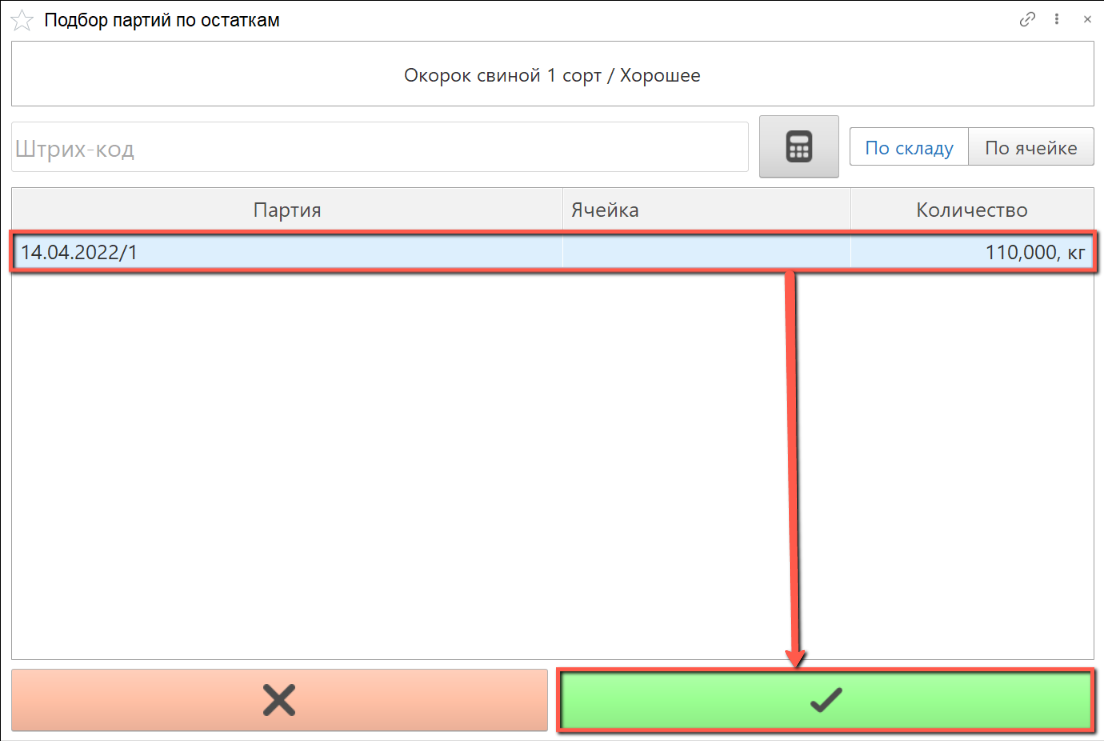
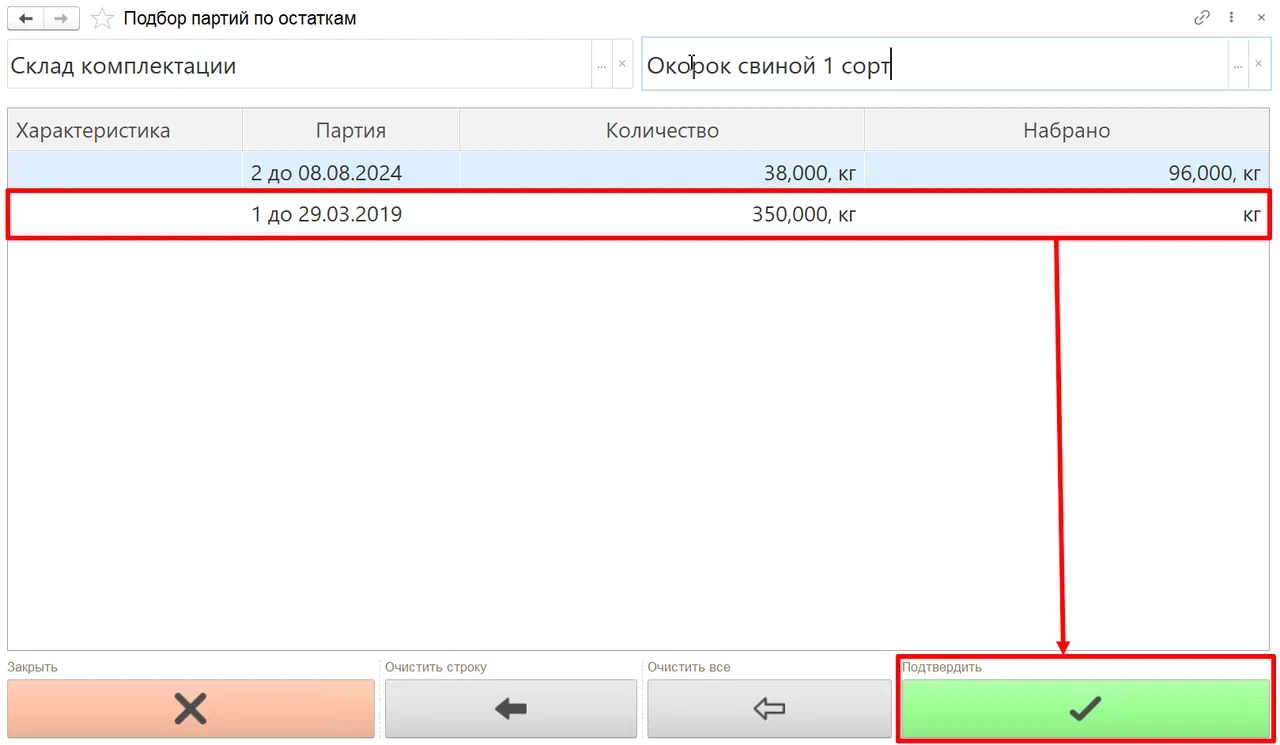
new: релиз справки 2.0.17.1

Changed region(s): [[0.0, 0.0, 1.0, 1.0]]

diff --git a/docs/Manufacture/Meat/SausageProduction/MincedMeat.md b/docs/Manufacture/Meat/SausageProduction/MincedMeat.md
@@ -8,55 +8,55 @@
 
 - Указываем дату смены и рабочий участок, на котором будет производиться фарш.
 
-  Нажимаем на кнопку **"Фаршесоставление"**:
+- Нажимаем на кнопку **"Фаршесоставление"**:
 
 ![Меню учетных точек.Колбасное производство. Фаршесоставление](MincedMeat.assets/Pictures_02.gif)
 
 - В списке заданий выбираем строку производственного задания, по которому будет осуществляться наборка по рецептуре.
 
-  Нажимаем на кнопку **"Наборка"**:
+- Нажимаем на кнопку **"Наборка"**:
 
-  ![Меню учетных точек.Колбасное производство. Фаршесоставление. Наборка](MincedMeat.assets/Pictures_03.png)
+![Меню учетных точек.Колбасное производство. Фаршесоставление. Наборка](MincedMeat.assets/Pictures_03.png)
 
 - Слева в открывшемся окне находится информация о партии производимого фарша и рецептура для наборки с указанием планового веса ингредиентов.
 
-  Сканируем штрихкод номенклатуры материала, который планируем добавить в фарш. Номенклатуру воды необходимо выбрать вручную в таблице рецептуры.
+- Сканируем штрихкод номенклатуры материала, который планируем добавить в фарш. При необходимости можно выбрать несколько партий используемого материала. Для этого после взвешивания первой партии необходимо повторно открыть форму подбора и выбрать вторую партию, далее произвести ее взвешивание. При этом на форме подбора партии будет видно, какие партии и в каком количестве (колонка "Набрано") были использованы в данной наборке. Номенклатуру воды необходимо выбрать вручную в таблице рецептуры.
 
-  Сканируем штрихкод тары, в которой будет взвешиваться сырье, или выбираем номер тары из списка. Вес тары указывается автоматически.
+- Сканируем штрихкод тары, в которой будет взвешиваться сырье, или выбираем номер тары из списка. Вес тары указывается автоматически.
 
-  Получаем вес брутто с весов, вес нетто рассчитается автоматически.
+- Получаем вес брутто с весов, вес нетто рассчитается автоматически.
 
-  При взвешивание оператор имеет возможность управлять учетом веса ранее набранных ингредиентов:
+При взвешивание оператор имеет возможность управлять учетом веса ранее набранных ингредиентов:
 
 - **С опустошением** - вес ранее набранных на таре ингредиентов не учитывается.
 - **Без опустошения** - вес ранее набранных на таре ингредиентов учитывается.
   
-  По завершении наборки ингредиентов нажимаем кнопку **"Завершить"**:
+По завершении наборки ингредиентов нажимаем кнопку **"Завершить"**:
 
-  ![Меню учетных точек.Колбасное производство. Фаршесоставление. Наборка](MincedMeat.assets/Pictures_04.png)
+![Меню учетных точек.Колбасное производство. Фаршесоставление. Наборка](MincedMeat.assets/Pictures_04.png)
 
 - Набранные материалы загружаются в куттер, на оборудовании выполняется замешивание фарша.
 
-  Фарш, полученный при замешивании также необходимо взвесить.
+Фарш, полученный при замешивании также необходимо взвесить.
 
-  Выбираем строку задания, по которому выполнено замешивание фарша, нажимаем на кнопку **"Приступить"**:
+- Выбираем строку задания, по которому выполнено замешивание фарша, нажимаем на кнопку **"Приступить"**:
 
-  ![Меню учетных точек.Колбасное производство. Фаршесоставление. Приступить](MincedMeat.assets/Pictures_05.png)
+![Меню учетных точек.Колбасное производство. Фаршесоставление. Приступить](MincedMeat.assets/Pictures_05.png)
 
-- Номенклатура фарша уже выбрана в АРМ.
+Номенклатура фарша уже выбрана в АРМ.
 
-  Сканируем штрихкод тары, в которой будет взвешиваться сырье, или выбираем номер тары из списка.
+- Сканируем штрихкод тары, в которой будет взвешиваться сырье, или выбираем номер тары из списка.
 
-  Вес брутто получаем с весов или выбираем вручную. Вес нетто рассчитается автоматически.
+- Вес брутто получаем с весов или выбираем вручную. Вес нетто рассчитается автоматически.
 
-  По завершении взвешивания готового фарша нажимаем на кнопку **"Завершить"**:
+- По завершении взвешивания готового фарша нажимаем на кнопку **"Завершить"**:
 
-  ![Меню учетных точек.Колбасное производство. Фаршесоставление. Завершить](MincedMeat.assets/Pictures_06.png)
+![Меню учетных точек.Колбасное производство. Фаршесоставление. Завершить](MincedMeat.assets/Pictures_06.png)
 
 - Печатается этикетка на партию фарша на каждую тару:
 
-  ![Этикетка партии](MincedMeat.assets/Pictures_07.png)
+![Этикетка партии](MincedMeat.assets/Pictures_07.png)
 
 - Выполненное задание в  АРМ выделяется зеленым цветом, состояние задания переходит в статус **"Выполнено"**:
 
-  ![Меню учетных точек.Колбасное производство. Фаршесоставление. Выполнено](MincedMeat.assets/Pictures_08.png)
+![Меню учетных точек.Колбасное производство. Фаршесоставление. Выполнено](MincedMeat.assets/Pictures_08.png)

diff --git a/docs/Manufacture/Meat/ProcessingWithTheAddition/Injection.md b/docs/Manufacture/Meat/ProcessingWithTheAddition/Injection.md
@@ -18,11 +18,11 @@
 
 - Открылось окно наборки: слева находится информация о партии производимого полуфабриката и рецептура для наборки с указанием планового веса ингредиентов.
 
-В таблице рецептуры указан плановый вес, который необходимо набрать.
+- В таблице рецептуры указан плановый вес, который необходимо набрать.
 
-Сканируем штрихкод партии готового рассола, с помощью которого будет производиться инъецирование сырья, или выбираем партию материала вручную.
+- Сканируем штрихкод партии готового рассола, с помощью которого будет производиться инъецирование сырья, или выбираем партию материала вручную. При необходимости можно выбрать несколько партий используемого материала. Для этого после взвешивания первой партии необходимо повторно открыть форму подбора и выбрать вторую партию, далее произвести ее взвешивание. При этом на форме подбора партии будет видно, какие партии и в каком количестве (колонка "Набрано") были использованы в данной наборке.
 
-Сканируем штрихкод тары, в которой будет взвешиваться полуфабрикат, или выбираем номер тары из списка. Вес тары указывается автоматически:
+- Сканируем штрихкод тары, в которой будет взвешиваться полуфабрикат, или выбираем номер тары из списка. Вес тары указывается автоматически:
 
 ![](Injection.assets/4.png)
 
@@ -32,7 +32,7 @@
 
 ![](Injection.assets/5.png)
 
-Рассол добавляется к сырью с помощью инъектора, полученный полуфабрикат также необходимо взвесить.
+- Рассол добавляется к сырью с помощью инъектора, полученный полуфабрикат также необходимо взвесить.
 
 - Выбираем строку задания, по которому выполнено инъецирование, нажимаем на кнопку **"Приступить"**:
 
@@ -40,11 +40,11 @@
 
 - Номенклатура инъецированного сырья уже выбрана в АРМ.
 
-Склад-получатель указывается автоматически, при необходимости его можно изменить, выбрав из списка.
+- Склад-получатель указывается автоматически, при необходимости его можно изменить, выбрав из списка.
 
-Сканируем штрихкод тары, в которой будет взвешиваться полуфабрикат, или выбираем номер тары из списка.
+- Сканируем штрихкод тары, в которой будет взвешиваться полуфабрикат, или выбираем номер тары из списка.
 
-Получаем вес брутто с весов, вес нетто рассчитается автоматически.
+- Получаем вес брутто с весов, вес нетто рассчитается автоматически.
 
 - По завершении взвешивания инъецированного сырья нажимаем кнопку **"Завершить"**:
 

diff --git a/docs/Manufacture/Meat/SausageProduction/SetOfMeatSets.md b/docs/Manufacture/Meat/SausageProduction/SetOfMeatSets.md
@@ -8,7 +8,7 @@
 
 - Указываем дату смены, смену и рабочий участок, на котором будет выполняться стандартизация сырья.
 
-  Нажимаем на кнопку **"Комплектация мясного сырья"**:
+- Нажимаем на кнопку **"Комплектация мясного сырья"**:
 
 ![](SetOfMeatSets.assets/2.png)
 
@@ -24,7 +24,7 @@
 
 ![](SetOfMeatSets.assets/4.png)
 
-- Сканируем штрихкод номенклатуры материала, который планируем мариновать, или выбираем партию материала вручную.
+- Сканируем штрихкод номенклатуры материала, который планируем мариновать, или выбираем партию материала вручную. При необходимости можно выбрать несколько партий используемого материала. Для этого после взвешивания первой партии необходимо повторно открыть форму подбора и выбрать вторую партию, далее произвести ее взвешивание. При этом на форме подбора партии будет видно, какие партии и в каком количестве (колонка "Набрано") были использованы в данной наборке.
 
 - Получаем вес брутто с весов, вес нетто рассчитается автоматически. Когда вес по рецептуре набран полностью, в ячейке "Всего" набранное количество выделяется зеленым цветом.
 
@@ -40,11 +40,11 @@
 
 - Номенклатура сырья для комплектации уже выбрана в АРМ.
 
-Склад-получатель указывается автоматически, при необходимости его можно изменить, выбрав из списка.
+- Склад-получатель указывается автоматически, при необходимости его можно изменить, выбрав из списка.
 
-Сканируем штрихкод тары, в которой будет взвешиваться полуфабрикат, или выбираем номер тары из списка.
+- Сканируем штрихкод тары, в которой будет взвешиваться полуфабрикат, или выбираем номер тары из списка.
 
-Получаем вес брутто с весов, вес нетто рассчитается автоматически.
+- Получаем вес брутто с весов, вес нетто рассчитается автоматически.
 
 - По завершении взвешивания сырья для комплектации нажимаем кнопку **"Завершить"**:
 

diff --git a/docs/Manufacture/Meat/SausageProduction/Standardization.md b/docs/Manufacture/Meat/SausageProduction/Standardization.md
@@ -24,7 +24,7 @@
 
 ![](Standardization.assets/4.png)
 
-- Сканируем штрихкод номенклатуры материала, который планируем мариновать, или выбираем партию материала вручную.
+- Сканируем штрихкод номенклатуры материала, который планируем мариновать, или выбираем партию материала вручную. При необходимости можно выбрать несколько партий используемого материала. Для этого после взвешивания первой партии необходимо повторно открыть форму подбора и выбрать вторую партию, далее произвести ее взвешивание. При этом на форме подбора партии будет видно, какие партии и в каком количестве (колонка "Набрано") были использованы в данной наборке.
 
 - Получаем вес брутто с весов, вес нетто рассчитается автоматически. Когда вес по рецептуре набран полностью, в ячейке "Всего" набранное количество выделяется зеленым цветом.
 
@@ -40,11 +40,11 @@
 
 - Номенклатура стандартизованного сырья уже выбрана в АРМ.
 
-Склад-получатель указывается автоматически, при необходимости его можно изменить, выбрав из списка.
+- Склад-получатель указывается автоматически, при необходимости его можно изменить, выбрав из списка.
 
-Сканируем штрихкод тары, в которой будет взвешиваться полуфабрикат, или выбираем номер тары из списка.
+- Сканируем штрихкод тары, в которой будет взвешиваться полуфабрикат, или выбираем номер тары из списка.
 
-Получаем вес брутто с весов, вес нетто рассчитается автоматически.
+- Получаем вес брутто с весов, вес нетто рассчитается автоматически.
 
 - По завершении взвешивания стандартизованного сырья нажимаем кнопку **"Завершить"**:
 

diff --git a/docs/Manufacture/Meat/SausageProduction/PreparationOfSpices.md b/docs/Manufacture/Meat/SausageProduction/PreparationOfSpices.md
@@ -16,13 +16,13 @@
 
 ![](PreparationOfSpices.assets/3.png)
 
-- Открылось окно наборки комплекта: слева находится информация о партии производимого полуфабриката и рецептура для наборки с указанием планового веса ингредиентов.
+- Открылось окно наборки комплекта: слева находится информация о партии производимого полуфабриката и рецептура для наборки с указанием планового веса ингредиентов. При необходимости можно выбрать несколько партий используемого материала. Для этого после взвешивания первой партии необходимо повторно открыть форму подбора и выбрать вторую партию, далее произвести ее взвешивание. При этом на форме подбора партии будет видно, какие партии и в каком количестве (колонка "Набрано") были использованы в данной наборке.
 
 В таблице рецептуры указан плановый вес, который необходимо набрать.
 
 ![](PreparationOfSpices.assets/4.png)
 
-- Получаем вес брутто с весов или выбираем вручную. При вводе вручную важно понимать, что вводимый вес - это сумма всех предыдущих и нового Вес нетто рассчитается автоматически. Когда вес по рецептуре набран полностью, в ячейке "Всего" набранное количество выделяется зеленым цветом.
+- Получаем вес брутто с весов или выбираем вручную. При вводе вручную важно понимать, что вводимый вес - это сумма всех предыдущих и нового. Вес нетто рассчитается автоматически. Когда вес по рецептуре набран полностью, в ячейке "Всего" набранное количество выделяется зеленым цветом.
 
 - По завершении наборки ингредиентов нажимаем на кнопку **"Завершить"**:
 

diff --git a/docs/Manufacture/Cheese/SemiHardCheese/CookingCheese/SetIngredients/SetIngredients.md b/docs/Manufacture/Cheese/SemiHardCheese/CookingCheese/SetIngredients/SetIngredients.md
@@ -25,10 +25,9 @@
     номер пакета;
 -   Начать наборку первого пакета, выбрав в таблице ингредиент из пакета 1;
 -   Указать партию, которая будет использоваться (если партия отлична от
-    той, которая заполнилась автоматически);
+    той, которая заполнилась автоматически, или если не настроен автоматический подбор партии по FIFO). При необходимости можно выбрать несколько партий. При этом на форме подбора партии будет отображаться информация о том, сколько и какой партии уже набрано;
 -   Указать количество ингредиента. При этом:
-    -   Если ингредиент весовой, то насыпать его на весы и нажать кнопку
-    получения веса с весов;
+    -   Если ингредиент весовой, то насыпать его на весы и нажать кнопку получения веса с весов;
     -   Если ингредиент невесовой, то вручную указать его количество;
 -   Если вместо ингредиента из основной рецептуры используется его
     аналог, то нажать **"Заменить материал"**, выбрать аналог и так же указать его партию и количество;

diff --git a/docs/Manufacture/Cheese/ProcessedCheese/MixingSet/MixingSet.md b/docs/Manufacture/Cheese/ProcessedCheese/MixingSet/MixingSet.md
@@ -11,7 +11,7 @@
 - Выбрать нужную строку задания и нажать **"Наборка"**;
 - Откроется окно набора комплекта. Таблица заполняется ингредиентами из выданной рецептуры. Для каждого ингредиента указано нормативное количество для комплекта. Выбрать в таблице первый набираемый ингредиент и указать его используемую партию;
 - Положить на весы нужное количество и нажать кнопку получения веса с весов или ввести вес вручную;
-- При попадании в норматив вес в таблице зафиксируется:  
+- При попадании в норматив вес в таблице зафиксируется. При необходимости можно выбрать несколько партий используемого материала. Для этого после взвешивания первой партии необходимо повторно открыть форму подбора и выбрать вторую партию, далее произвести ее взвешивание. При этом на форме подбора партии будет видно, какие партии и в каком количестве (колонка "Набрано") были использованы в данной наборке.    
 
 ![](MixingSet.assets/1.gif)
 

diff --git a/docs/Manufacture/Meat/PicklingSalting/Salting.md b/docs/Manufacture/Meat/PicklingSalting/Salting.md
@@ -24,7 +24,7 @@
 
 ![](Salting.assets/4.png)
 
-- Сканируем штрихкод номенклатуры материала, который планируем мариновать, или выбираем партию материала вручную.
+- Сканируем штрихкод номенклатуры материала, который планируем мариновать, или выбираем партию материала вручную. При необходимости можно выбрать несколько партий используемого материала. Для этого после взвешивания первой партии необходимо повторно открыть форму подбора и выбрать вторую партию, далее произвести ее взвешивание. При этом на форме подбора партии будет видно, какие партии и в каком количестве (колонка "Набрано") были использованы в данной наборке.
 
 - Получаем вес брутто с весов или выбираем вручную. Вес нетто рассчитается автоматически. Когда вес по рецептуре набран полностью, в ячейке "Всего" набранное количество выделяется зеленым цветом.
 

diff --git a/docs/Manufacture/Meat/PicklingSalting/Pickling.md b/docs/Manufacture/Meat/PicklingSalting/Pickling.md
@@ -24,7 +24,7 @@
 
 ![](Pickling.assets/4.png)
 
-- Сканируем штрихкод номенклатуры материала, который планируем мариновать, или выбираем партию материала вручную.
+- Сканируем штрихкод номенклатуры материала, который планируем мариновать, или выбираем партию материала вручную. При необходимости можно выбрать несколько партий используемого материала. Для этого после взвешивания первой партии необходимо повторно открыть форму подбора и выбрать вторую партию, далее произвести ее взвешивание. При этом на форме подбора партии будет видно, какие партии и в каком количестве (колонка "Набрано") были использованы в данной наборке.
 
 - Получаем вес брутто с весов, вес нетто рассчитается автоматически. Когда вес по рецептуре набран полностью, в ячейке "Всего" набранное количество выделяется зеленым цветом.
 

diff --git a/docs/Manufacture/Cheese/ProcessedCheese/AccountingProcessedCheese/AccountingProcessedCheese.md b/docs/Manufacture/Cheese/ProcessedCheese/AccountingProcessedCheese/AccountingProcessedCheese.md
@@ -19,7 +19,7 @@
 -   Выбрать первый ингредиент. Указать его партию;
 -   Положить на весы и нажать кнопку получения с весов (или ввести
     вручную это значение);
--   При попадании в норму, вес фиксируется напротив ингредиента:  
+-   При попадании в норму, вес фиксируется напротив ингредиента. При необходимости можно выбрать несколько партий используемого материала. Для этого после взвешивания первой партии необходимо повторно открыть форму подбора и выбрать вторую партию, далее произвести ее взвешивание. При этом на форме подбора партии будет видно, какие партии и в каком количестве (колонка "Набрано") были использованы в данной наборке. 
 
 ![](AccountingProcessedCheese.assets/1.gif)
 

diff --git a/docs/Manufacture/Cheese/ProcessedCheese/BulkIngredients/BulkIngredients.md b/docs/Manufacture/Cheese/ProcessedCheese/BulkIngredients/BulkIngredients.md
@@ -19,7 +19,7 @@
     ведется учет по ним);
 -   Положить на весы нужное количество и нажать кнопку получения веса с
     весов или ввести вес вручную;
--   При попадании в норматив вес в таблице зафиксируется:  
+-   При попадании в норматив вес в таблице зафиксируется. При необходимости можно выбрать несколько партий используемого материала. Для этого после взвешивания первой партии необходимо повторно открыть форму подбора и выбрать вторую партию, далее произвести ее взвешивание. При этом на форме подбора партии будет видно, какие партии и в каком количестве (колонка "Набрано") были использованы в данной наборке.   
     
 ![](BulkIngredients.assets/1.gif)
 

diff --git a/docs/Manufacture/Meat/Preparation/Shredding.md b/docs/Manufacture/Meat/Preparation/Shredding.md
@@ -36,7 +36,7 @@
 
 - Получаем вес брутто с весов, вес нетто рассчитается автоматически.
 
-- По окончании взвешивания сырья на одной таре нажимаем кнопку **"Завершить"**:
+- По окончании взвешивания сырья на одной таре нажимаем кнопку **"Завершить"**. При необходимости можно выбрать несколько партий используемого материала. Для этого после взвешивания первой партии необходимо повторно открыть форму подбора и выбрать вторую партию, далее произвести ее взвешивание. При этом на форме подбора партии будет видно, какие партии и в каком количестве (колонка "Набрано") были использованы в данной наборке. 
 
 ![](Shredding.assets/6.png)
 
